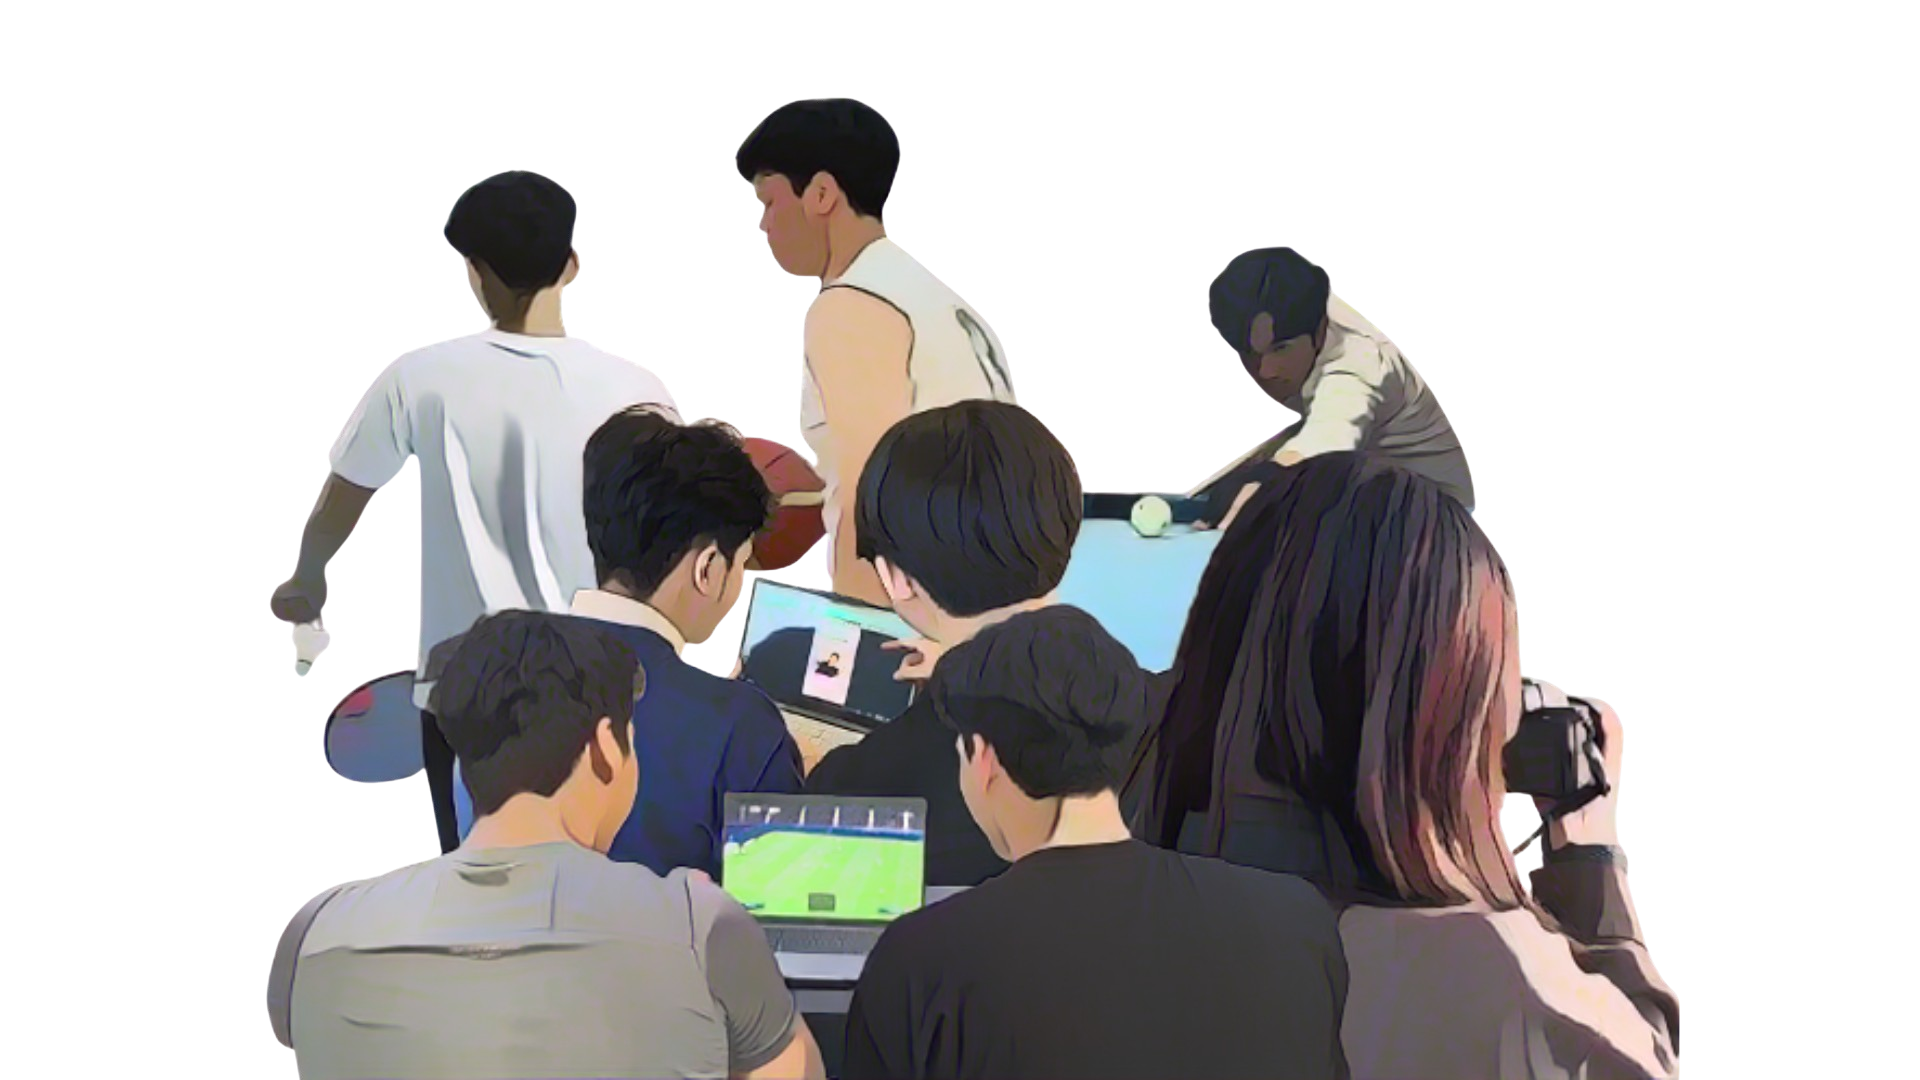
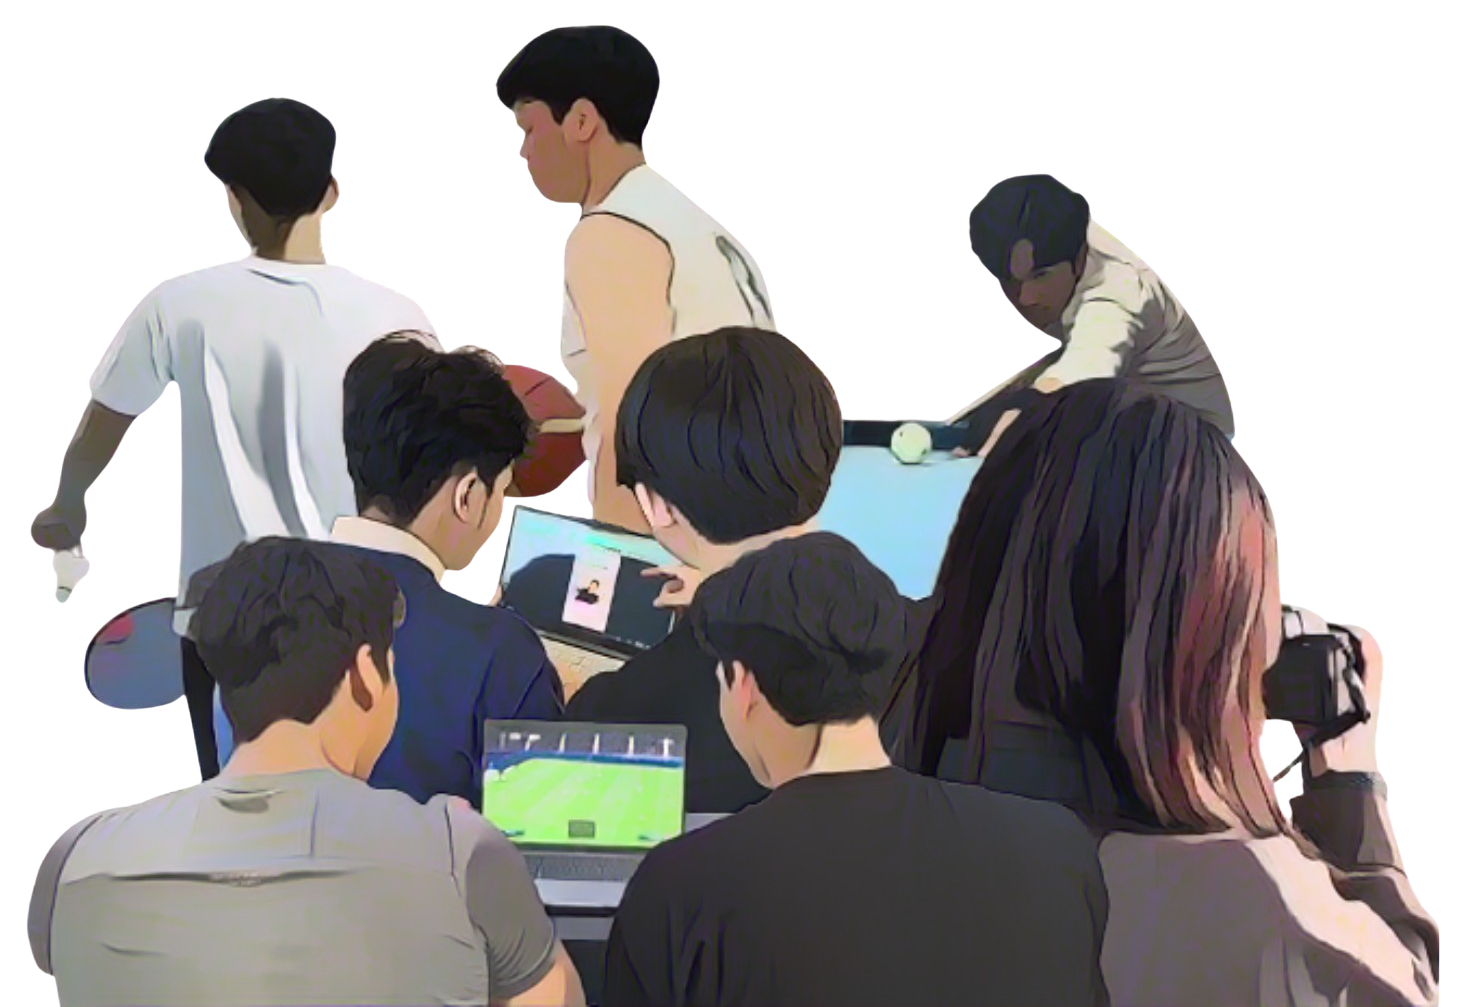
style: edit photo dan ngepasin

diff --git a/src/components/fiktispace/about.tsx b/src/components/fiktispace/about.tsx
@@ -1,15 +1,37 @@
+'use client';
+
+import { useEffect, useState } from 'react';
 import { Lato } from "@/styles/font";
 
 export default function AboutPage() {
+  const [isClient, setIsClient] = useState(false);
+
+  useEffect(() => {
+    setIsClient(true);
+
+    const script = document.createElement('script');
+    script.setAttribute('src', 'https://www.instagram.com/embed.js');
+    script.setAttribute('async', '');
+    document.body.appendChild(script);
+  }, []);
+
+  if (!isClient) return null;
   return (
     <div className="pt-4 bg-[#0A2352]">
       <div className="flex items-center justify-center">
-        <div className="my-8 px-8 md:px-[128px]">
+        <div className="py-8 px-4 md:px-10">
           <div>
             <p className={`${Lato.className} text-center text-white text-base font-bold md:text-2xl`}>
             “FIKTI SPACE is back and inviting you to join in for an array of exciting tournaments! This year, we have competitions in Futsal, Mobile Legends, and much more! Come and compete with us!”
             </p>
           </div>
+          {/* <div className='mt-3'>
+            <blockquote 
+              className="instagram-media" 
+              data-instgrm-permalink="https://www.instagram.com/reel/DJB4r8rym82/" 
+              data-instgrm-version="14">
+            </blockquote>
+          </div> */}
         </div>
       </div>
     </div>

diff --git a/src/components/fiktispace/dashboard.tsx b/src/components/fiktispace/dashboard.tsx
@@ -40,7 +40,7 @@ export default function DashboardPage() {
                 height={1000}
               ></Image>
             </div> */}
-            <div className="-mb-2 pt-6">
+            <div className="pt-2">
               <Image
                 src={"/fiktispace/Hero image animate.png"}
                 alt={"dashboard"}
@@ -104,7 +104,7 @@ export default function DashboardPage() {
               <Image
                 src={"/fiktispace/Hero image animate.png"}
                 alt={"dashboard"}
-                width={700}
+                width={680}
                 height={1000}
               ></Image>
             </div>
